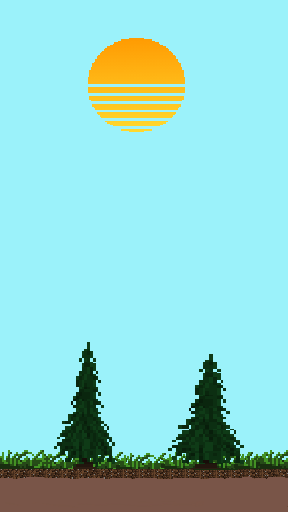
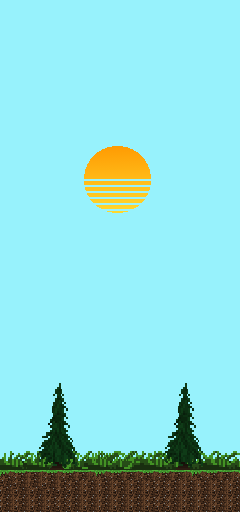
Updated background size.

Changed region(s): [[0.0, 0.6562, 1.0, 1.0], [0.2917, 0.0625, 0.6417, 0.4375]]

diff --git a/core/src/com/trammy/game/states/ScoreState.java b/core/src/com/trammy/game/states/ScoreState.java
@@ -13,6 +13,7 @@ import com.badlogic.gdx.scenes.scene2d.ui.Button;
 import com.badlogic.gdx.scenes.scene2d.ui.ImageButton;
 import com.badlogic.gdx.scenes.scene2d.ui.Label;
 import com.badlogic.gdx.scenes.scene2d.ui.Window;
+import com.badlogic.gdx.scenes.scene2d.utils.ClickListener;
 import com.badlogic.gdx.scenes.scene2d.utils.Drawable;
 import com.badlogic.gdx.scenes.scene2d.utils.TextureRegionDrawable;
 import com.trammy.game.JumpyFruits;
@@ -30,27 +31,22 @@ public class ScoreState extends State{
     private Stage stage;
 
 
-    protected ScoreState(GameStateManager gsm, Preferences prefs, int currentScore, String charName, String bgName) {
+    protected ScoreState(GameStateManager gsm, Preferences prefs, int currentScore, String charName, String bgName)
+    {
         super(gsm);
-
         this.prefs = prefs;
         this.charName = charName;
         this.bgName = bgName;
         this.currentScore = currentScore;
         highScore = prefs.getInteger("high score");
-
         highScoreText = "High Score: " + highScore;
         currentScoreText = "Current Score: " + currentScore;
+        stage = new Stage(viewport, gsm.getBatch());
         createWindow();
-
-        highScoreLabel.setText(highScoreText);
-        currentScoreLabel.setText(currentScoreText);
     }
 
-    public void createWindow(){
-
-        stage = new Stage(viewport, gsm.getBatch());
-
+    public void createWindow()
+    {
         popUpBg= new Texture("popupbg.png");
         Window.WindowStyle windowStyle = new Window.WindowStyle(JumpyFruits.font, Color.BLACK, new TextureRegionDrawable(new TextureRegion(popUpBg)));
         popUp = new Window("", windowStyle);
@@ -76,55 +72,60 @@ public class ScoreState extends State{
         mainMenuBtn.setSize(menuBtnTexture.getWidth(), menuBtnTexture.getHeight());
         mainMenuBtn.setPosition(cam.position.x - mainMenuBtn.getWidth()/2 , popUp.getY() - mainMenuBtn.getHeight() - 20);
 
-        mainMenuBtn.addListener(new InputListener(){
+        System.out.println("ANANIZISSSS");
+        mainMenuBtn.addListener(new ClickListener()
+        {
             @Override
-            public void touchUp (InputEvent event, float x, float y, int pointer, int button) {
+            public void touchUp (InputEvent event, float x, float y, int pointer, int button)
+            {
                 super.touchUp(event, x, y, pointer, button);
                 System.out.println("Press a Button");
+                gsm.set(new MenuState(gsm,charName,bgName));
             }
             @Override
-            public boolean touchDown (InputEvent event, float x, float y, int pointer, int button) {
-                gsm.set(new MenuState(gsm,charName,bgName));
+            public boolean touchDown (InputEvent event, float x, float y, int pointer, int button)
+            {
                 return true;
             }
         });
-
-
         popUp.setLayoutEnabled(false);
         popUp.add(highScoreLabel);
         popUp.add(currentScoreLabel);
-
         stage.addActor(popUp);
         stage.addActor(mainMenuBtn);
+        highScoreLabel.setText(highScoreText);
+        currentScoreLabel.setText(currentScoreText);
         Gdx.input.setInputProcessor(stage);
-
     }
 
     @Override
-    public void handleInput() {
-
+    public void handleInput()
+    {
     }
 
     @Override
-    public void update(float dt) {
-        cam.update();
+    public void update(float dt)
+    {
+        Gdx.input.setInputProcessor(stage);
     }
 
     @Override
     public void render(SpriteBatch sb) {
-        sb.setProjectionMatrix(cam.combined);
-        stage.act();
+        stage.getBatch().setProjectionMatrix(cam.combined);
+        stage.act(Gdx.graphics.getDeltaTime());
         stage.draw();
     }
 
     @Override
-    public void dispose() {
+    public void dispose()
+    {
         stage.dispose();
-
     }
 
     @Override
-    public void resize(int width, int height) {
-
+    public void resize(int width, int height)
+    {
+        viewport.update(width, height, true);
+        cam.update();
     }
 }

diff --git a/core/src/com/trammy/game/states/PlayState.java b/core/src/com/trammy/game/states/PlayState.java
@@ -45,34 +45,6 @@ public class PlayState extends State
     private ExtendViewport hudViewport;
 
 
-   public PlayState(GameStateManager gsm)
-    {
-        super(gsm);
-        bgName = "";
-        charName = "";
-        chooseBg(bgName);
-        character = new Character(50,300, charName);
-        score = 0;
-
-        hudCam = new OrthographicCamera();
-        hudCam.setToOrtho(false, JumpyFruits.WIDTH/2.0f, JumpyFruits.HEIGHT/2.0f);
-        hudViewport = new ExtendViewport(JumpyFruits.WIDTH/2.0f, JumpyFruits.HEIGHT/2.0f,hudCam);
-        cam.setToOrtho(false, JumpyFruits.WIDTH/2.0f, JumpyFruits.HEIGHT/2.0f);
-
-        forks = new Array<Fork>();
-
-        ground = new Texture("groundjf.png");
-        groundPos1 = new Vector2(cam.position.x - cam.viewportWidth / 2, GROUND_Y_OFFSET);
-        groundPos2 = new Vector2((cam.position.x - cam.viewportWidth / 2) + ground.getWidth(), GROUND_Y_OFFSET);
-
-        for(int i = 1; i <= KNIFE_COUNT; i++)
-        {
-            forks.add(new Fork(i * (KNIFE_SPACING + Fork.KNIFE_WIDTH)));
-        }
-
-        createButtons();
-    }
-
     public PlayState(GameStateManager gsm, String charName, String bgName){
         super(gsm);
         this.bgName = bgName;

diff --git a/core/src/com/trammy/game/states/MenuState.java b/core/src/com/trammy/game/states/MenuState.java
@@ -413,9 +413,6 @@ public class MenuState extends State
     public void render(SpriteBatch sb)
     {
         cam.update();
-        sb.begin();
-        sb.draw(backgroundImg, 0, 0);
-        sb.end();
         stage.getBatch().setProjectionMatrix(cam.combined);
         stage.act(Gdx.graphics.getDeltaTime());
         stage.draw();
